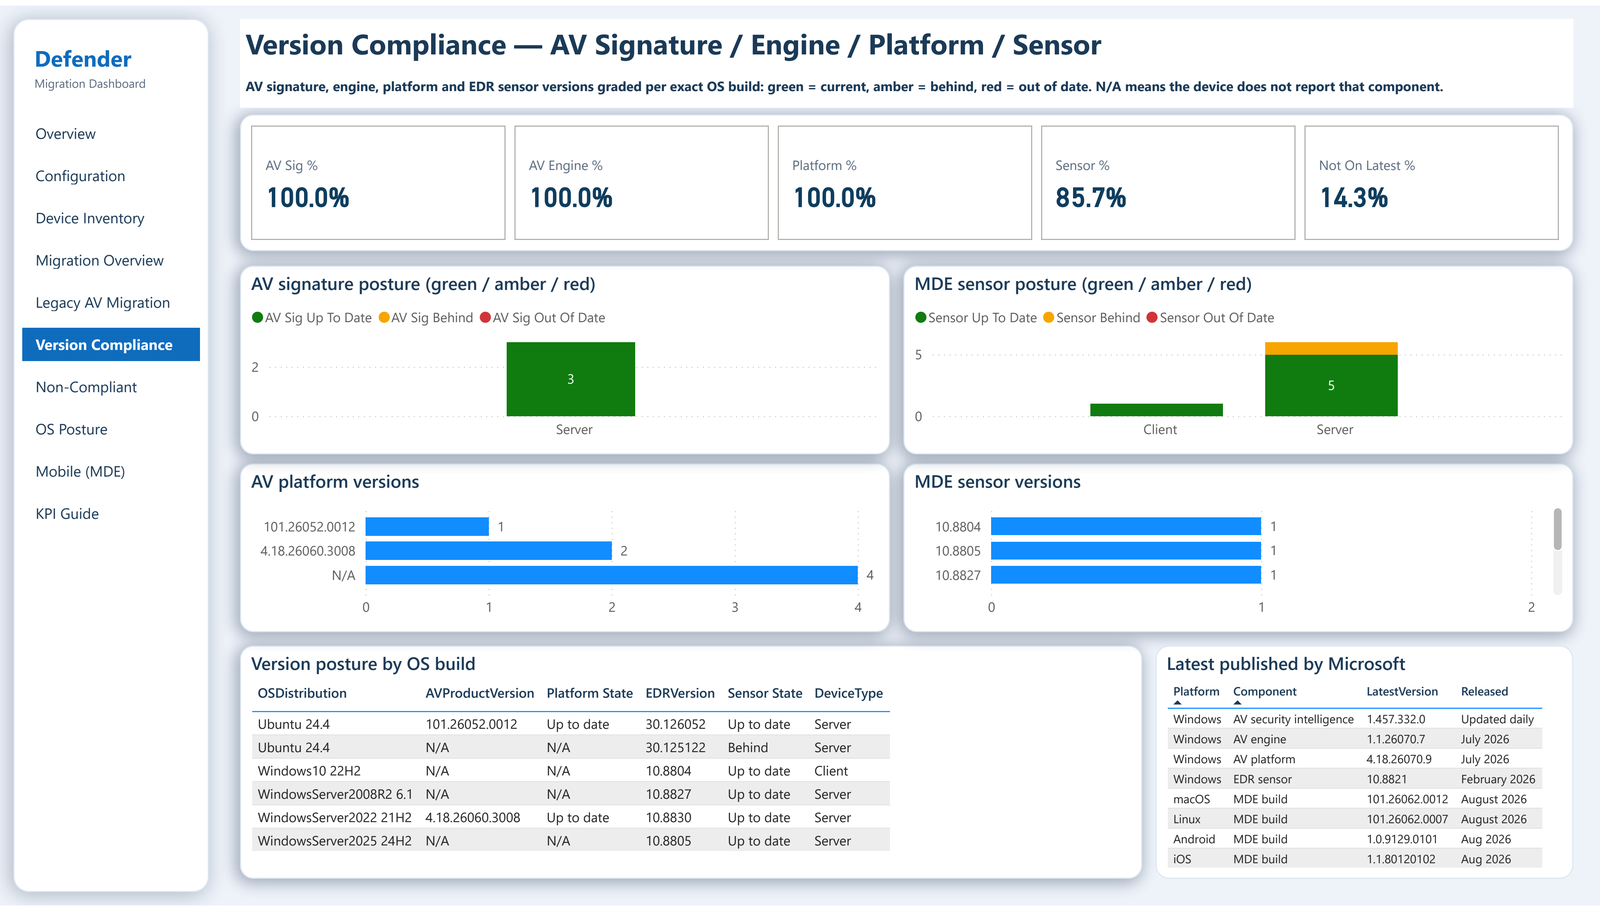
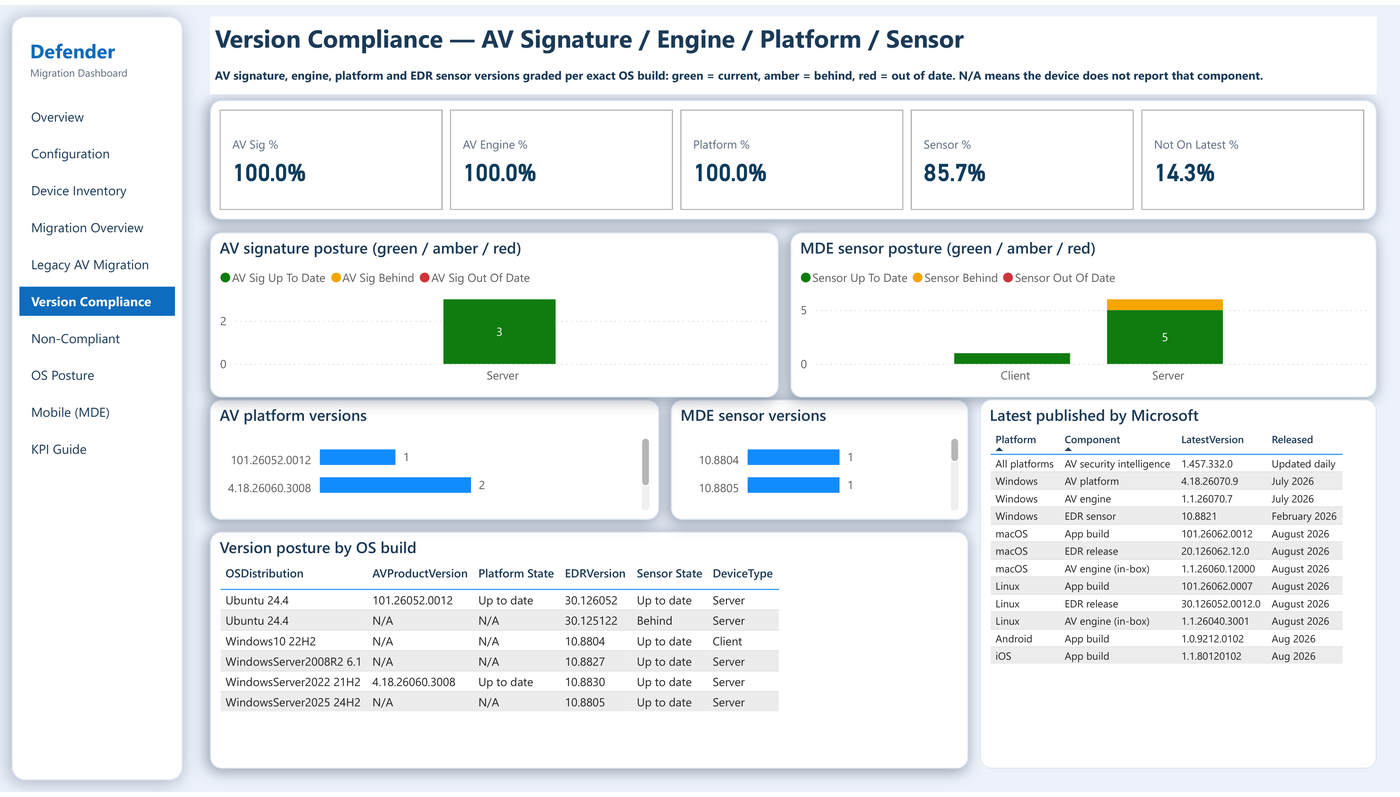
Fix per-platform version namespaces in the Baselines table
Defender on macOS and Linux does not use the Windows version series, and the
value those agents report as their EDR version is not the app build. The
baseline table listed only the 101.x app build for them, so a Linux device
reporting EDRVersion 30.126052 was being shown against a published
101.26062.0007 - two unrelated numbers.

The release notes publish the matching Release version (macOS 20.x, Linux 30.x)
in each row's Details cell, alongside a platform-specific engine build. Both are
now parsed and carried as their own rows, so every published value sits in the
namespace the devices actually report.

- Baselines grows from 8 rows to 12: app build, EDR release and in-box AV engine
  per platform, with security intelligence listed once as "All platforms" since
  the definitions are shared across operating systems.
- The macOS/Linux engine is labelled "(in-box)": it is the engine that shipped
  with that release, while the running engine advances independently through the
  signature channel and is routinely newer. A device ahead of it is healthy, not
  stale.
- Version Compliance reflowed so all 12 rows render without a scrollbar, which
  PDF export cannot scroll past.

Grading was already safe - sensor state keys on OS platform plus version, so it
never cross-compared namespaces. The defect was confined to the reference table.

Verified live: all 12 components read from Microsoft at refresh (Learn + WDSI),
not from the deploy-time snapshot.
[…]

diff --git a/DefenderMigrationDashboard/docs/architecture.md b/DefenderMigrationDashboard/docs/architecture.md
@@ -66,8 +66,33 @@ unreachable or is restructured, that row degrades to last-known-good rather than
 The `Source` and `RetrievedUtc` columns record which page each value came from and when, so a stale
 value is visible rather than silent.
 
-The release-notes table is not in date order and its month column is inconsistent free text, so rows
-are ranked by build version rather than by date.
+**Platform version namespaces are not interchangeable.** This is the part that most often gets
+reported wrongly. Defender on macOS and Linux does not use the Windows version series, and the
+number a device reports as its *EDR version* is not its app build:
+
+| Platform | Device reports as… | Namespace | Published reference |
+|---|---|---|---|
+| Windows | `AVProductVersion` | `4.18.x` | AV platform |
+| Windows | `AVEngineVersion` | `1.1.x` (short last segment) | AV engine |
+| Windows | `EDRVersion` | `10.8xxx` | EDR sensor |
+| macOS | `AVProductVersion` | `101.x` | App build |
+| macOS | `EDRVersion` | `20.x` | EDR release |
+| Linux | `AVProductVersion` | `101.x` | App build |
+| Linux | `EDRVersion` | `30.x` | EDR release |
+| Android / iOS | app version | `1.0.x` / `1.1.x` | App build |
+
+So a Linux device reporting `30.126052` is **not** comparable to the `101.26062.0007` app build,
+even though both describe the same release. The Baselines table therefore carries the app build and
+the EDR release as separate rows per platform, taken from the `Release version` field the release
+notes publish alongside each build.
+
+Two further caveats the table encodes:
+
+- **Security intelligence is shared across platforms**, so it is listed once as *All platforms*
+  rather than repeated per OS.
+- **The macOS/Linux engine is labelled *in-box***: it is the engine that shipped with that release,
+  but the running engine advances independently through the signature channel and is routinely
+  *newer* than the released value. A device ahead of this number is healthy, not stale.
 
 The "stale" threshold is a parameter (`StaleAfterDays`, default 7). Agree the value with the customer.
 

diff --git a/DefenderMigrationDashboard/CHANGELOG.md b/DefenderMigrationDashboard/CHANGELOG.md
@@ -6,6 +6,24 @@ versioning** — `YYYY.MM.DD.XX`, where `XX` is the two-digit release number wit
 at `01`, incrementing per release, reset to `01` at midnight). Earlier entries used date-stamped
 semantic versions and are kept as history.
 
+## [2026.08.20.18] - 2026-08-20
+
+### Fixed
+- **macOS and Linux version baselines were being compared in the wrong namespace.** Defender on
+  macOS/Linux does not use the Windows version series, and the value a device reports as its *EDR
+  version* is not its app build. The baseline table listed only the `101.x` app build for those
+  platforms, so a Linux device reporting `EDRVersion 30.126052` was shown against a published
+  `101.26062.0007` — two unrelated numbers. The release notes publish the matching `Release version`
+  (macOS `20.x`, Linux `30.x`) alongside each build; both are now carried as separate rows.
+- The macOS/Linux **AV engine** is now listed as *in-box* — the engine that shipped with that
+  release. The running engine advances independently via the signature channel and is routinely
+  newer, so a device ahead of the released value is healthy rather than out of date.
+- **Security intelligence is listed once as *All platforms*** instead of under Windows, since the
+  definitions are shared across operating systems.
+
+### Changed
+- The baseline table grew from 8 rows to 12 to cover the per-platform components; the Version
+  Compliance layout was reflowed to fit them without a scrollbar.
 ## [2026.08.20.17] - 2026-08-20
 
 ### Changed
